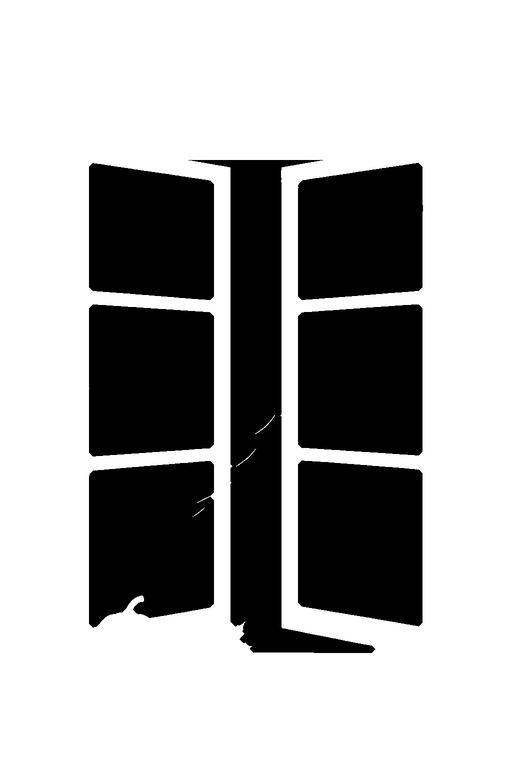
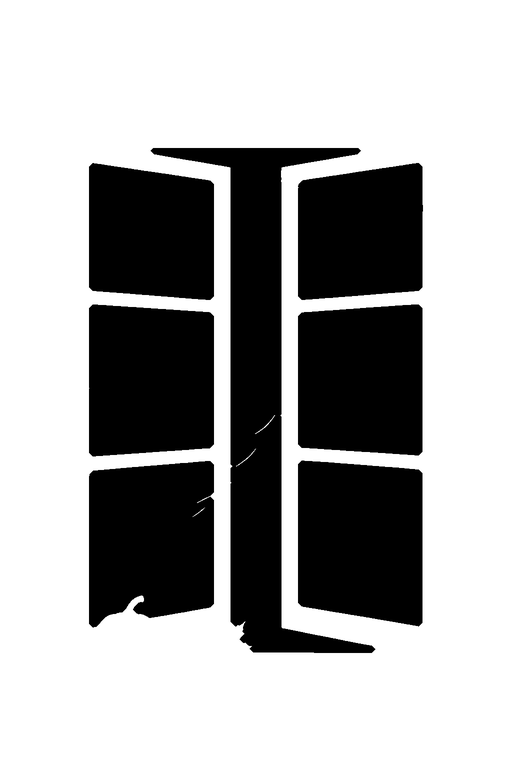
fix(ink): open windows show the garden right up to the blinds box
The glass mask for spring / early summer / autumn started at y=320, but the
opening begins just under the blinds box at 294, so a strip of bare paper
cut the tree and the sun off at the top. Masks regenerated with --cut 296.

Changed region(s): [[0.2812, 0.1875, 0.7188, 0.2188]]

diff --git a/scripts/ink-glass-mask.py b/scripts/ink-glass-mask.py
@@ -10,11 +10,12 @@ Two modes:
                    big, enclosed (not touching the image edge) and not taller than
                    3/4 of the image are glass or opening; thin white strips (frame
                    bars) vanish under a 7px erosion. Everything above Y (the blinds
-                   and the frame head) is dropped.
+                   and the frame head) is dropped. Put Y just under the blinds box
+                   (296 for the open windows), or a strip of bare paper shows.
 
 Writes a 512x768 PNG whose alpha is the mask (CSS mask-image reads alpha).
 Needs Pillow, numpy, scipy. Usage:
-  python ink-glass-mask.py WINDOW_DAY.webp OUT.png --cut 320
+  python ink-glass-mask.py WINDOW_DAY.webp OUT.png --cut 296
   python ink-glass-mask.py WINDOW_DAY.webp OUT.png --panes
 Check the result by eye: frost drawn on the glass splits panes, so a frosted
 closed window should use --panes.

diff --git a/docs/changelog.md b/docs/changelog.md
@@ -43,6 +43,7 @@
 - 草地上的大东西是 GPT 直接画进院子里的（单独一层试过，像贴纸）；院子只从那扇窗的玻璃和推开的空当里露出来，遮罩按窗图自动生成（`scripts/ink-glass-mask.py`）
 - 白天的百叶按每扇窗的高度拉起；深冬重画了一版，雪人整个落在右下那格里，不被横档挡住
 - 六季全套图约 7.3MB，跟其他图一起进离线预缓存
+- 同日修：推开的窗（春 / 初夏 / 秋）遮罩原来从 y=320 才开始，百叶盒底下空着一条纸，树和日月在顶上被截断（阿萌发小红书时看见的）；改从百叶盒正下方 296 开始，锁屏和「一年在窗前」一起好了
 - 还没在 iPhone 上看；太阳出落时间还是冬天那套
 
 ### 2026-10-28 · 墨线窗的字跟百叶一起出来
